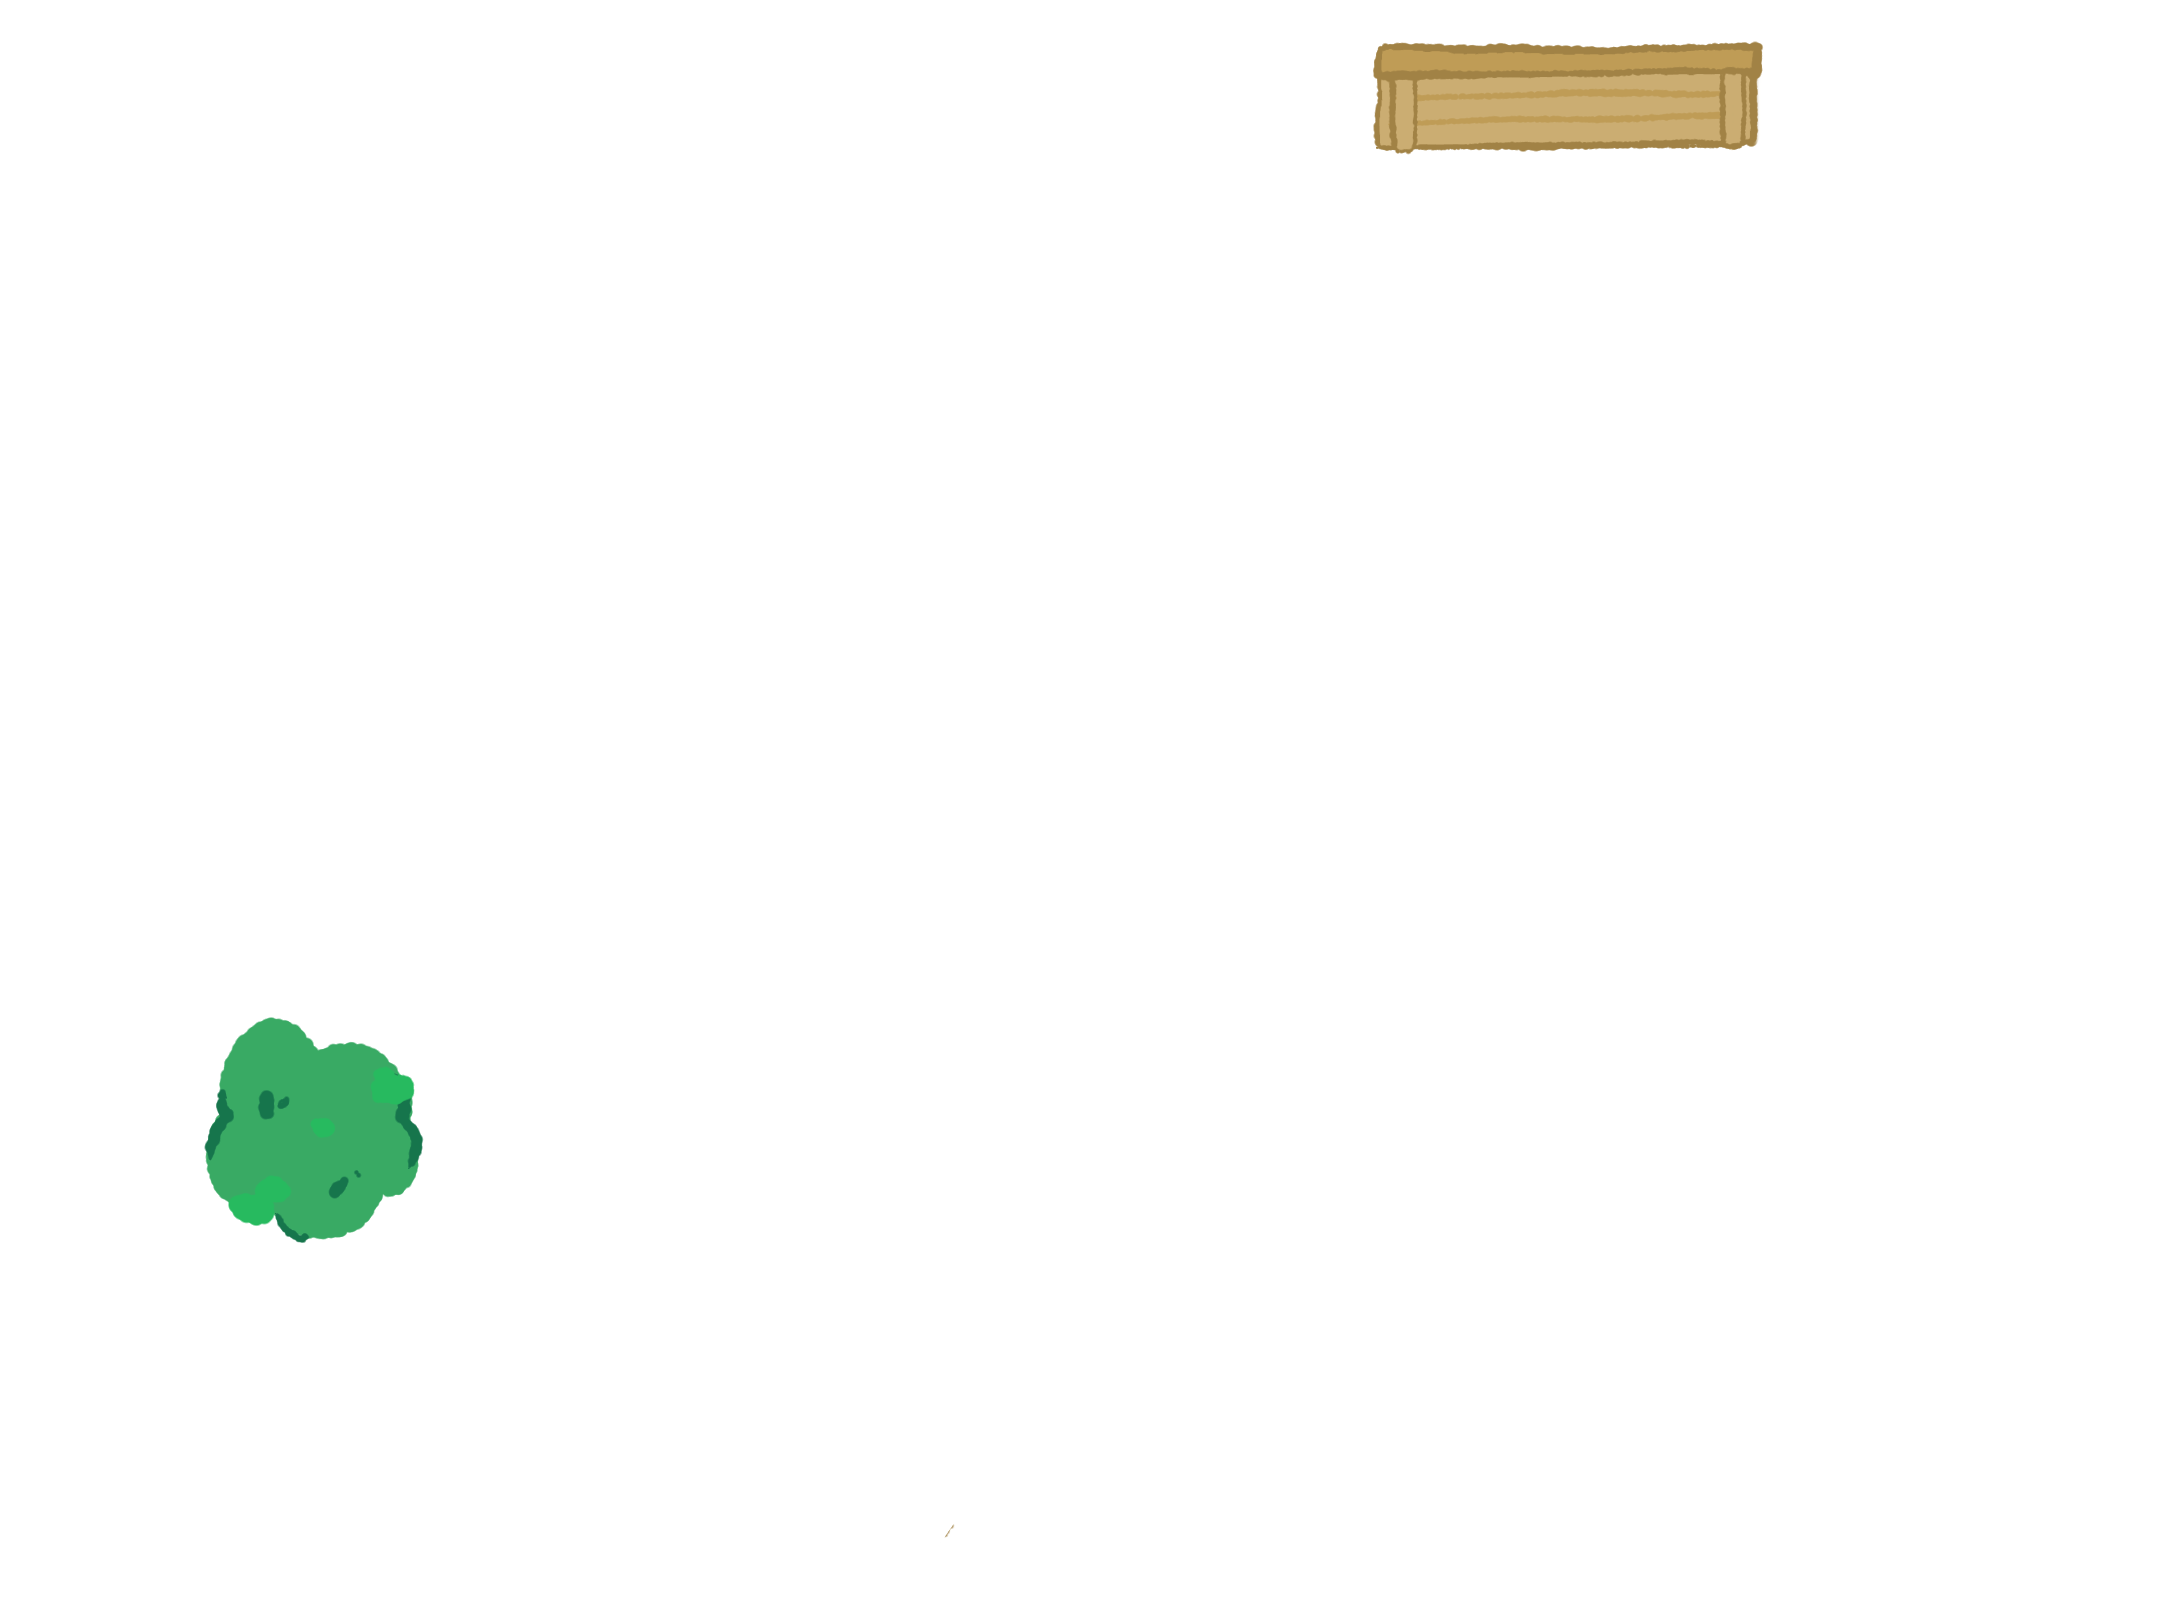
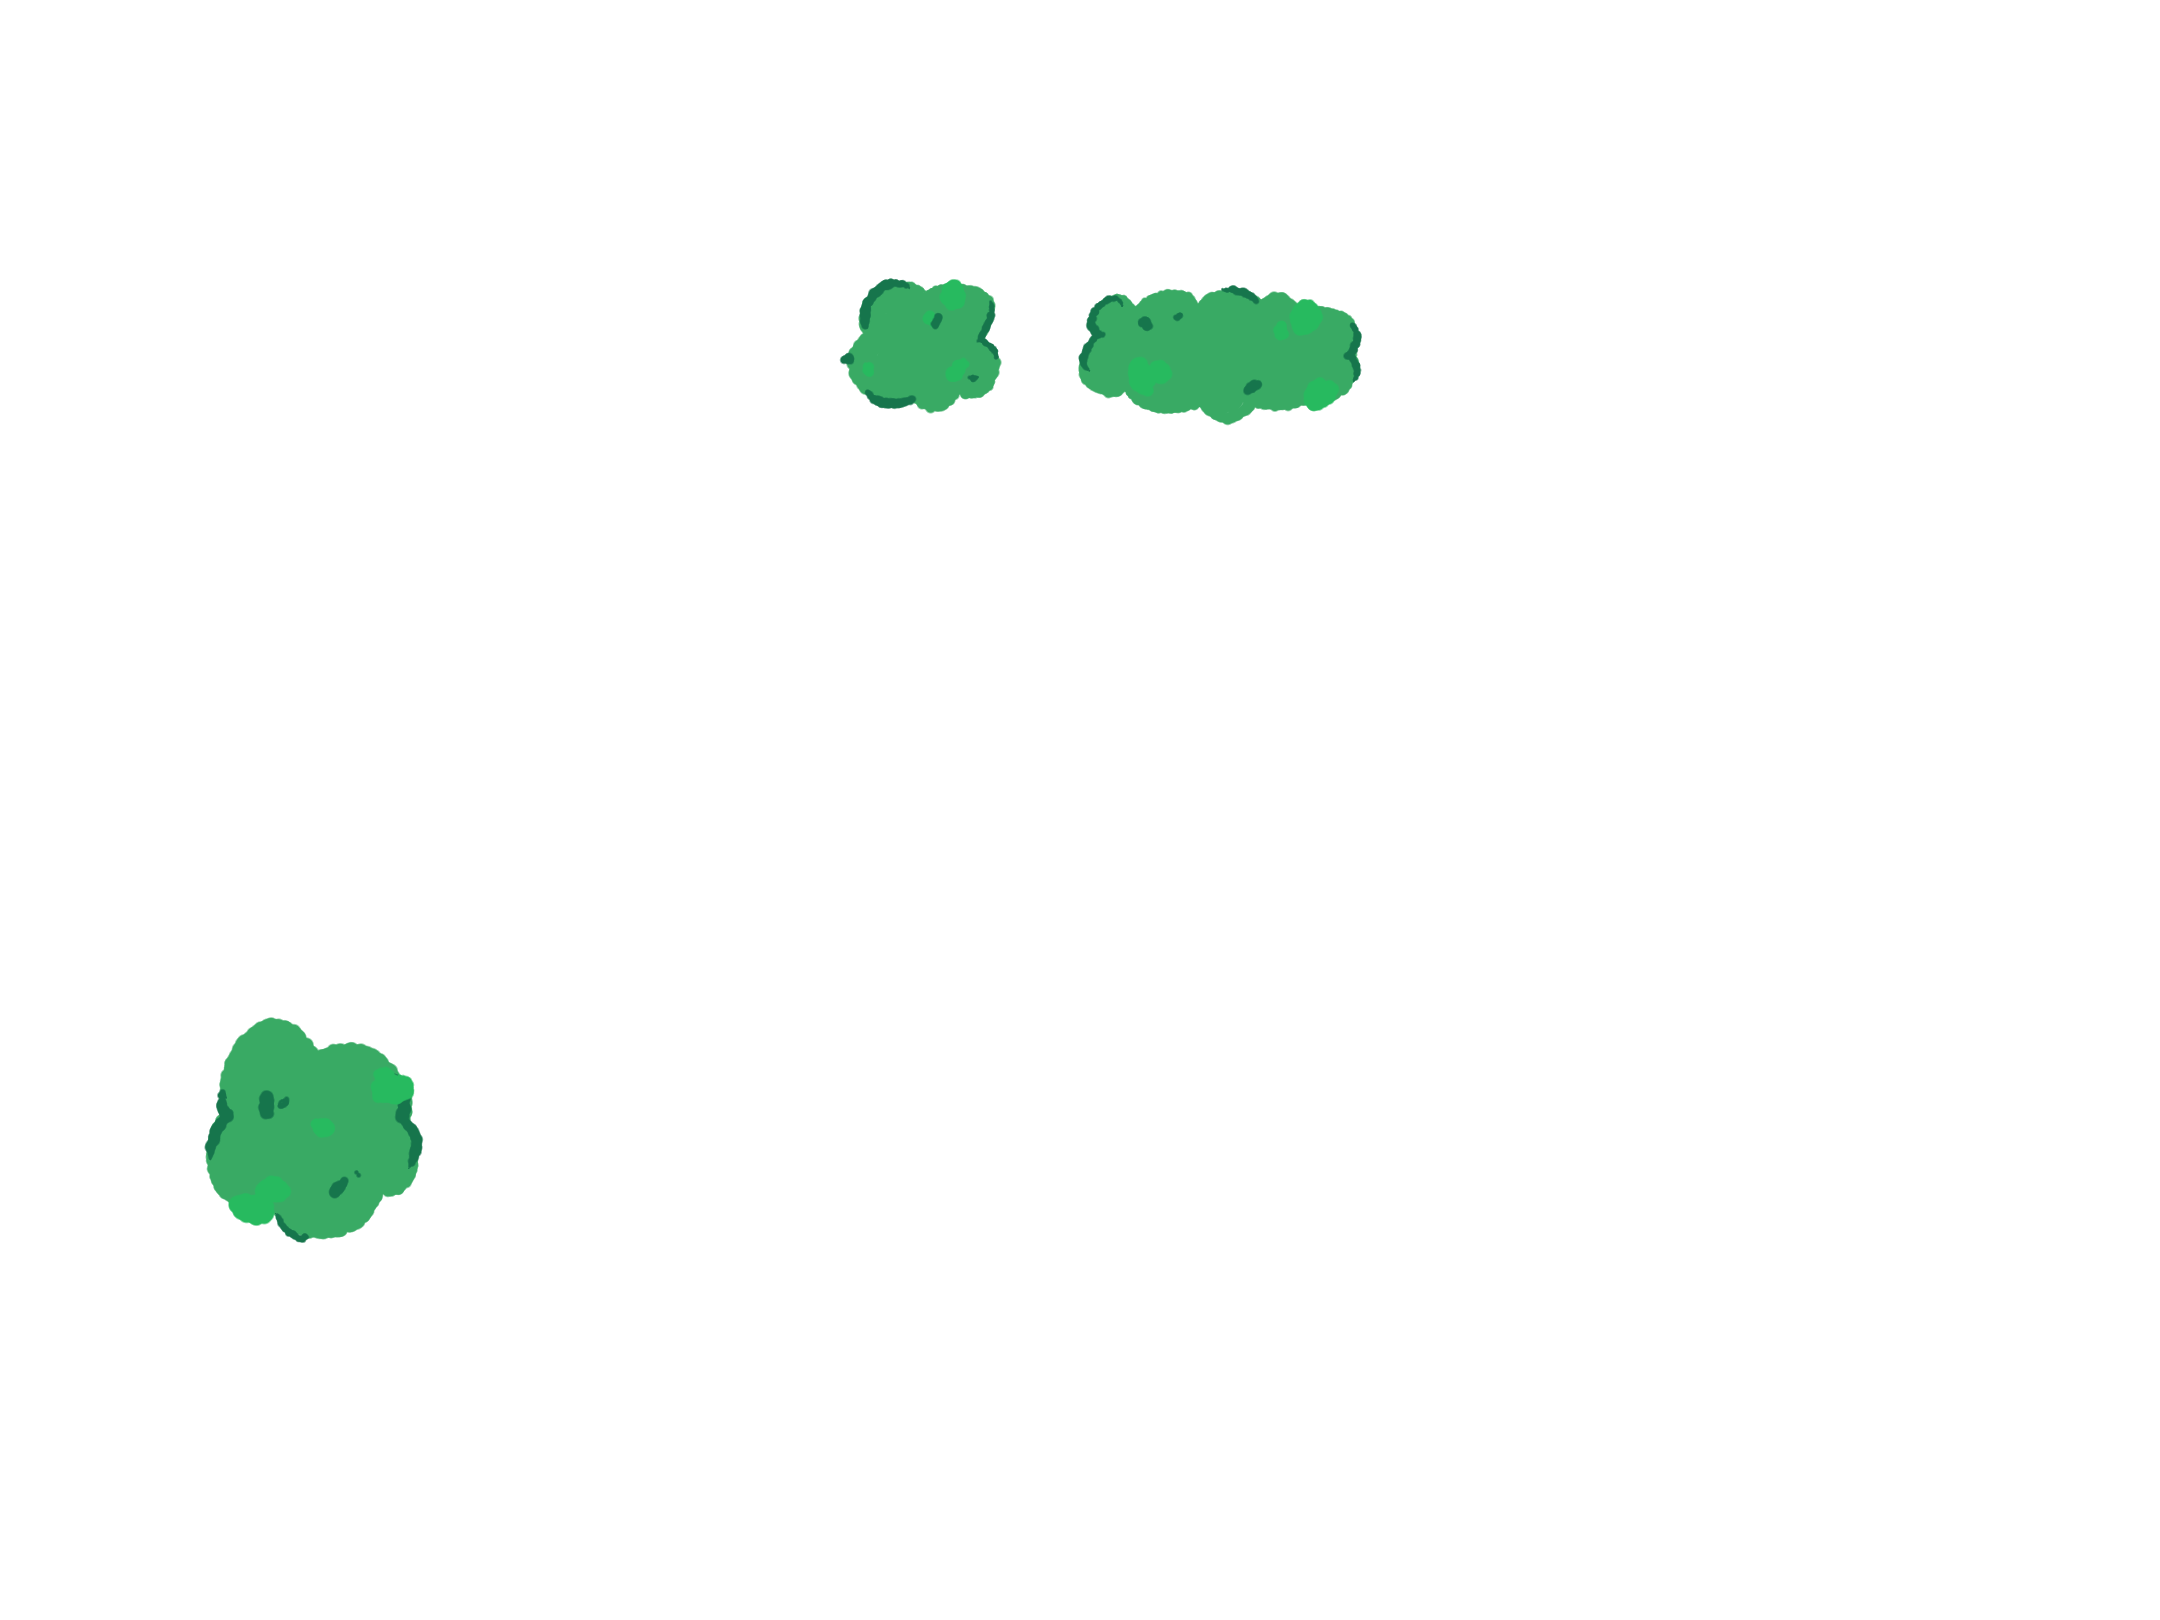
updated seagull game

Changed region(s): [[0.6204, 0.0, 0.8375, 0.0926], [0.4963, 0.1543, 0.6514, 0.2778], [0.3722, 0.1543, 0.4653, 0.2778]]

diff --git a/portfolio/art74/detective_game/detective_game.js b/portfolio/art74/detective_game/detective_game.js
@@ -1,5 +1,5 @@
 var hiddenMap, map, hiddenItems, items, lightOnItems, bird, birdGlasses, obtGlasses, 
-    obtAcorn, obtChips, obtFish, introPage, winPage, beak, beakHover;
+    obtAcorn, obtChips, obtFish, obtFries, obtWorm, introPage, winPage, beak, beakHover;
 var pangolinFont;
 var gameState= "intro";
 var collectedItems = 0;
@@ -7,8 +7,8 @@ var collectedItems = 0;
 var character;
 var playerX = 1650;
 var playerY = 1450;
-let playerW = 50;
-let playerH = 50;
+let playerW = 40;
+let playerH = 40;
 var speed = 5;
 var angle = 0;
 
@@ -20,8 +20,8 @@ var mapHeight = 1620;
 
 var lightOn = false;
 var cursorHover = false;
-// [trash, nut, picnic, fish]
-var itemsFound = [false, false, false, false];
+// [fries, nut, picnic, fish, worm]
+var itemsFound = [false, false, false, false, false];
 var showingItem = false;
 var currentItem = 0;
 
@@ -31,13 +31,20 @@ var collisions = [
   { x: 1400, y: 50, w: 325, h: 75 }, // upper bench
   { x: 300, y: 1100, w: 50, h: 50 }, // bush
   { x: 1775, y: 850, w: 50, h: 75 }, // basket
-  { x: 1575, y: 775, w: 50, h: 50 }, // girl
+  { x: 1570, y: 775, w: 50, h: 50 }, // girl
   { x: 1600, y: 950, w: 50, h: 50 }, // boy
   { x: 900, y: 1400, w: 75, h: 100 }, // lower bench
   { x: 960, y: 1300, w: 75, h: 100 },
   { x: 1025, y: 1200, w: 75, h: 100 },
   { x: 1250, y: 1550, w: 910, h: 100 }, // water
-  { x: 2000, y: 1400, w: 200, h: 150 }
+  { x: 2000, y: 1400, w: 200, h: 150 }, 
+  { x: 885, y: 330, w: 75, h: 40 }, // upper bush 1
+  { x: 1125, y: 330, w: 200, h: 40 }, // upper bush 2
+  { x: 1360, y: 425, w: 30, h: 30 }, // ball
+  { x: 1330, y: 85, w: 20, h: 40 }, // backpack
+  { x: 1925, y: 775, w: 75, h: 75 }, // trash 2
+  { x: 2000, y: 325, w: 100, h: 125 }, // rocks
+  { x: 525, y: 90, w: 275, h: 20 }, // sign
 ];
 
 function preload(){
@@ -52,6 +59,8 @@ function preload(){
   obtAcorn = loadImage("assets/obtained_acorn.png");
   obtChips = loadImage("assets/obtained_chips.png");
   obtFish = loadImage("assets/obtained_fish.png");
+  obtFries = loadImage("assets/obtained_fries.png");
+  obtWorm = loadImage("assets/obtained_worm.png");
   introPage = loadImage("assets/intro_page.png");
   winPage = loadImage("assets/win_page.png");
   beak = loadImage("assets/beak.png");
@@ -120,11 +129,16 @@ function mainGame(){
   checkHover();
   textAlign(LEFT);
   fill("#4d493f");
-  text("Collected items: " + collectedItems + "/4", 20, 580);
+  if (!lightOn) {
+     text("Find the glasses!", 20, 580);
+  }
+  else {
+    text("Collected items: " + collectedItems + "/5", 20, 580);
+  }
   showObtainedItem();
     
   
-  if (collectedItems >= 5) {
+  if (collectedItems > 5) {
     gameState = "win";
   }
 }
@@ -205,11 +219,6 @@ function move() {
     light(hiddenMap, camX, camY);
   }
 
-  // draw walls for testing
-  //for (let collision of collisions) {
-  //  rect(collision.x - camX, collision.y - camY, collision.w, collision.h);
-  //}
-
   push();
   translate(playerX - camX + 25, playerY - camY + 25); // center of image
   rotate(angle);
@@ -226,6 +235,12 @@ function move() {
   if (!lightOn) {
     image(lightOnItems, -camX, -camY, mapWidth, mapHeight);
   }
+  
+  // draw collisions for testing
+  //for (let collision of collisions) {
+  //  rect(collision.x - camX, collision.y - camY, collision.w, collision.h);
+  //  rect(playerX - camX, playerY - camY, playerW, playerH);
+  //}
 }
 
 function light(img, camX, camY) {
@@ -261,7 +276,7 @@ function hitsCollision(x, y, w, h) {
 function mousePressed() {
   if (showingItem) {
     showingItem = false;
-    if(collectedItems == 4) {
+    if(collectedItems == 5) {
       collectedItems++;
     }
     return;
@@ -270,8 +285,18 @@ function mousePressed() {
   let worldMouseX = mouseX + camX;
   let worldMouseY = mouseY + camY;
 
+  // glasses
+  if (!lightOn && isColliding(worldMouseX, worldMouseY, 1, 1, 1040, 1245, 50, 50)) {
+    lightOn = true;
+    character = birdGlasses;
+    
+    showingItem = true;
+    currentItem = 9;
+
+  }
+
   // trash can
-  if (!itemsFound[0] && isColliding(worldMouseX, worldMouseY, 1, 1, 275, 325, 75, 75)) {
+  if (lightOn && !itemsFound[0] && isColliding(worldMouseX, worldMouseY, 1, 1, 275, 325, 75, 75)) {
     lightOn = true;
     itemsFound[0] = true;
     character = birdGlasses;
@@ -309,14 +334,25 @@ function mousePressed() {
     currentItem = 3;
   }
   
+  // worm
+  if (lightOn && !itemsFound[4] && isColliding(worldMouseX, worldMouseY, 1, 1, 825, 785, 50, 50)) {
+    itemsFound[4] = true;
+    collectedItems++;
+    
+    showingItem = true;
+    currentItem = 4;
+  }
+  
 }
 
 function showObtainedItem(){
   if (showingItem) {
-    if (currentItem === 0) image(obtGlasses, 0, 0, width, height);
+    if (currentItem === 0) image(obtFries, 0, 0, width, height);
     if (currentItem === 1) image(obtAcorn, 0, 0, width, height);
     if (currentItem === 2) image(obtChips, 0, 0, width, height);
     if (currentItem === 3) image(obtFish, 0, 0, width, height);
+    if (currentItem === 4) image(obtWorm, 0, 0, width, height);
+    if (currentItem === 9) image(obtGlasses, 0, 0, width, height);
   }
 }
 
@@ -333,8 +369,13 @@ function checkHover(){
   let worldMouseX = mouseX + camX;
   let worldMouseY = mouseY + camY;
 
-  // trash can
-  if (!itemsFound[0] && isColliding(worldMouseX, worldMouseY, 1, 1, 275, 325, 75, 75)) {
+  // glasses
+  if (!lightOn && isColliding(worldMouseX, worldMouseY, 1, 1, 1040, 1245, 50, 50)) {
+    cursorHover = true;
+  }
+  
+  // trash can fries
+  else if (!itemsFound[0] && isColliding(worldMouseX, worldMouseY, 1, 1, 275, 325, 75, 75)) {
     cursorHover = true;
   }
   
@@ -350,6 +391,11 @@ function checkHover(){
   
   // fish
   else if (lightOn && !itemsFound[3] && isColliding(worldMouseX, worldMouseY, 1, 1, 1675, 300, 75, 50)) {
+    cursorHover = true;
+  }
+  
+  // glasses
+  else if (lightOn && !itemsFound[4] && isColliding(worldMouseX, worldMouseY, 1, 1, 825, 785, 50, 50)) {
     cursorHover = true;
   }
   

diff --git a/portfolio/art74/self-portrait.html b/portfolio/art74/self-portrait.html
@@ -30,7 +30,7 @@
                 <div class="middle-1000">
                     <h2>Self Portrait in p5.js</h2>
                     <div class="image-wrapper">
-                        <iframe src="self_portrait/index.html" title="self portrait" height="600" width="600"></iframe>
+                        <iframe src="self_portrait/index.html" title="self portrait" height="606" width="606"></iframe>
                     </div>
                     <p>
                         This is a self portrait done using p5.js. Doing the hair was a bit tricky but I think it 
